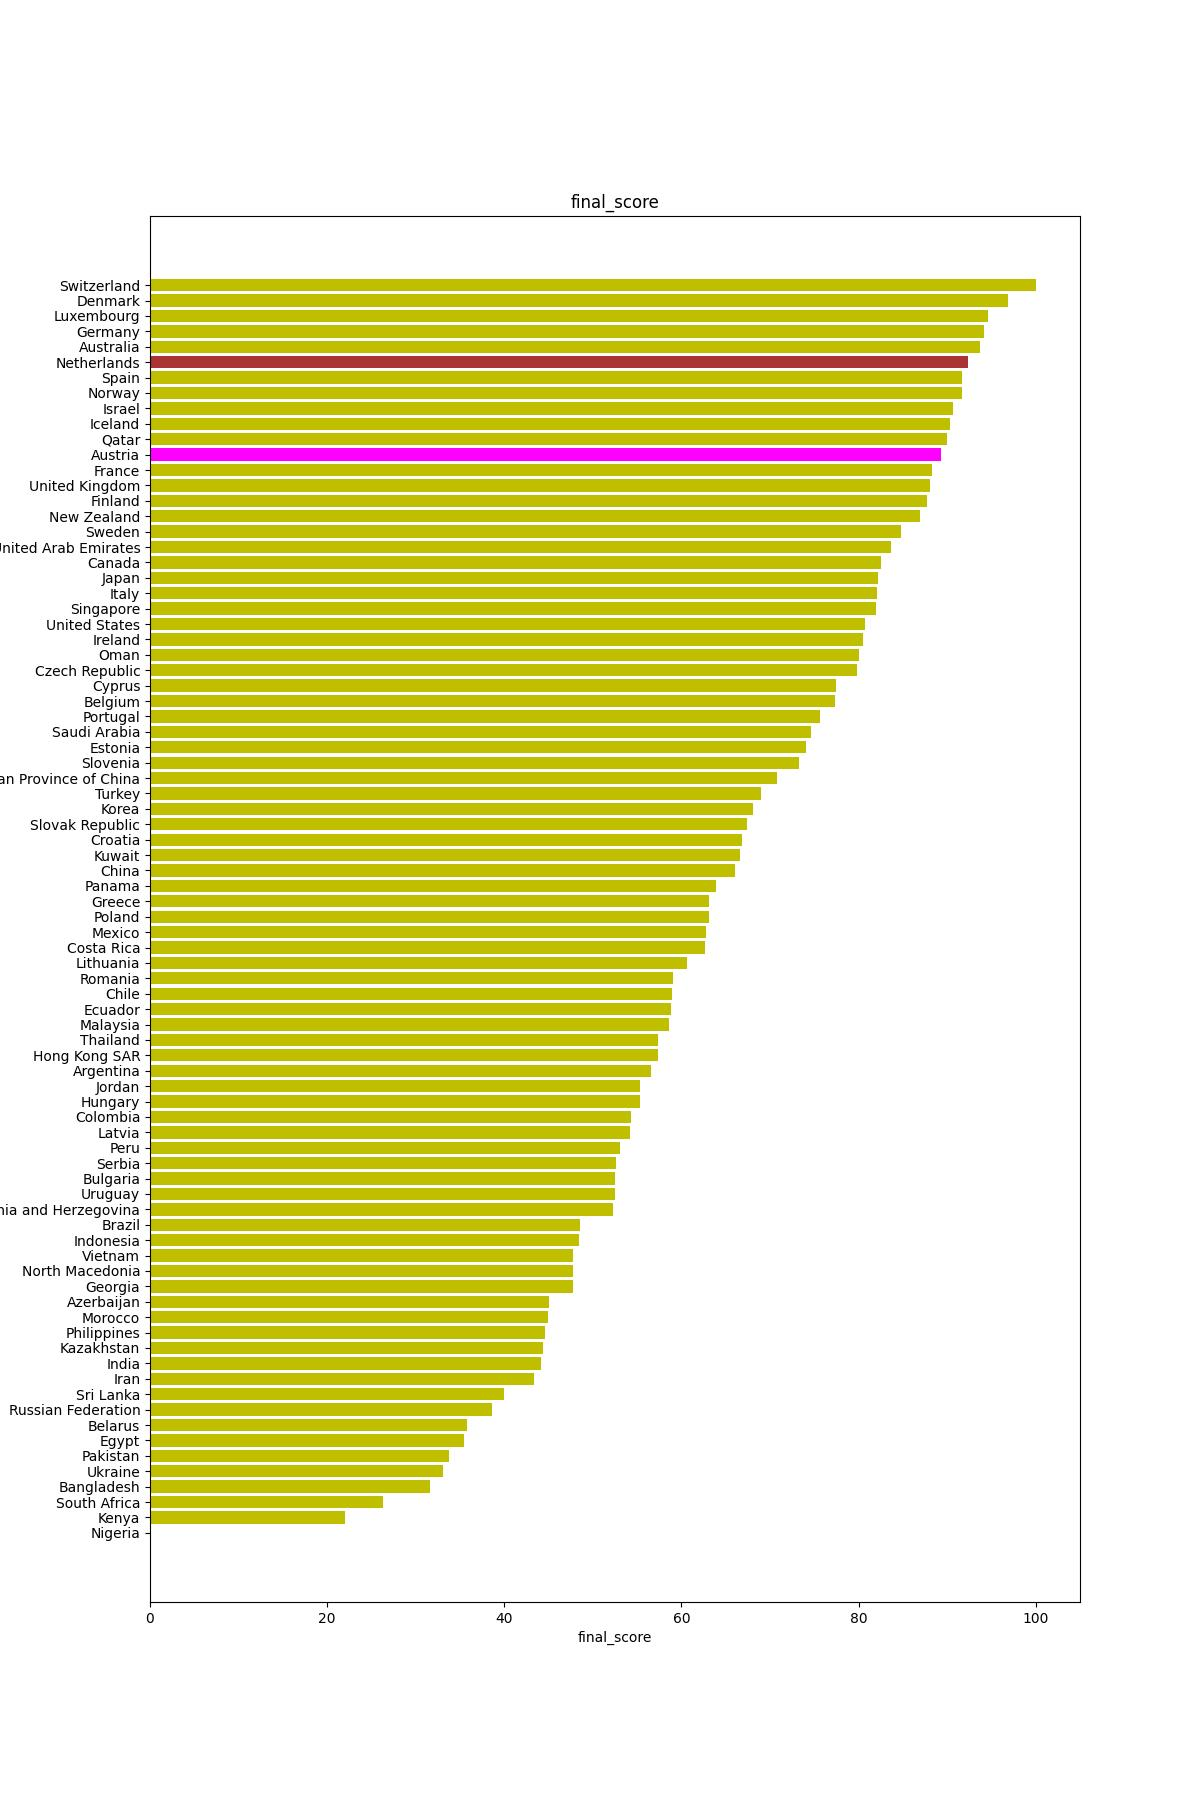
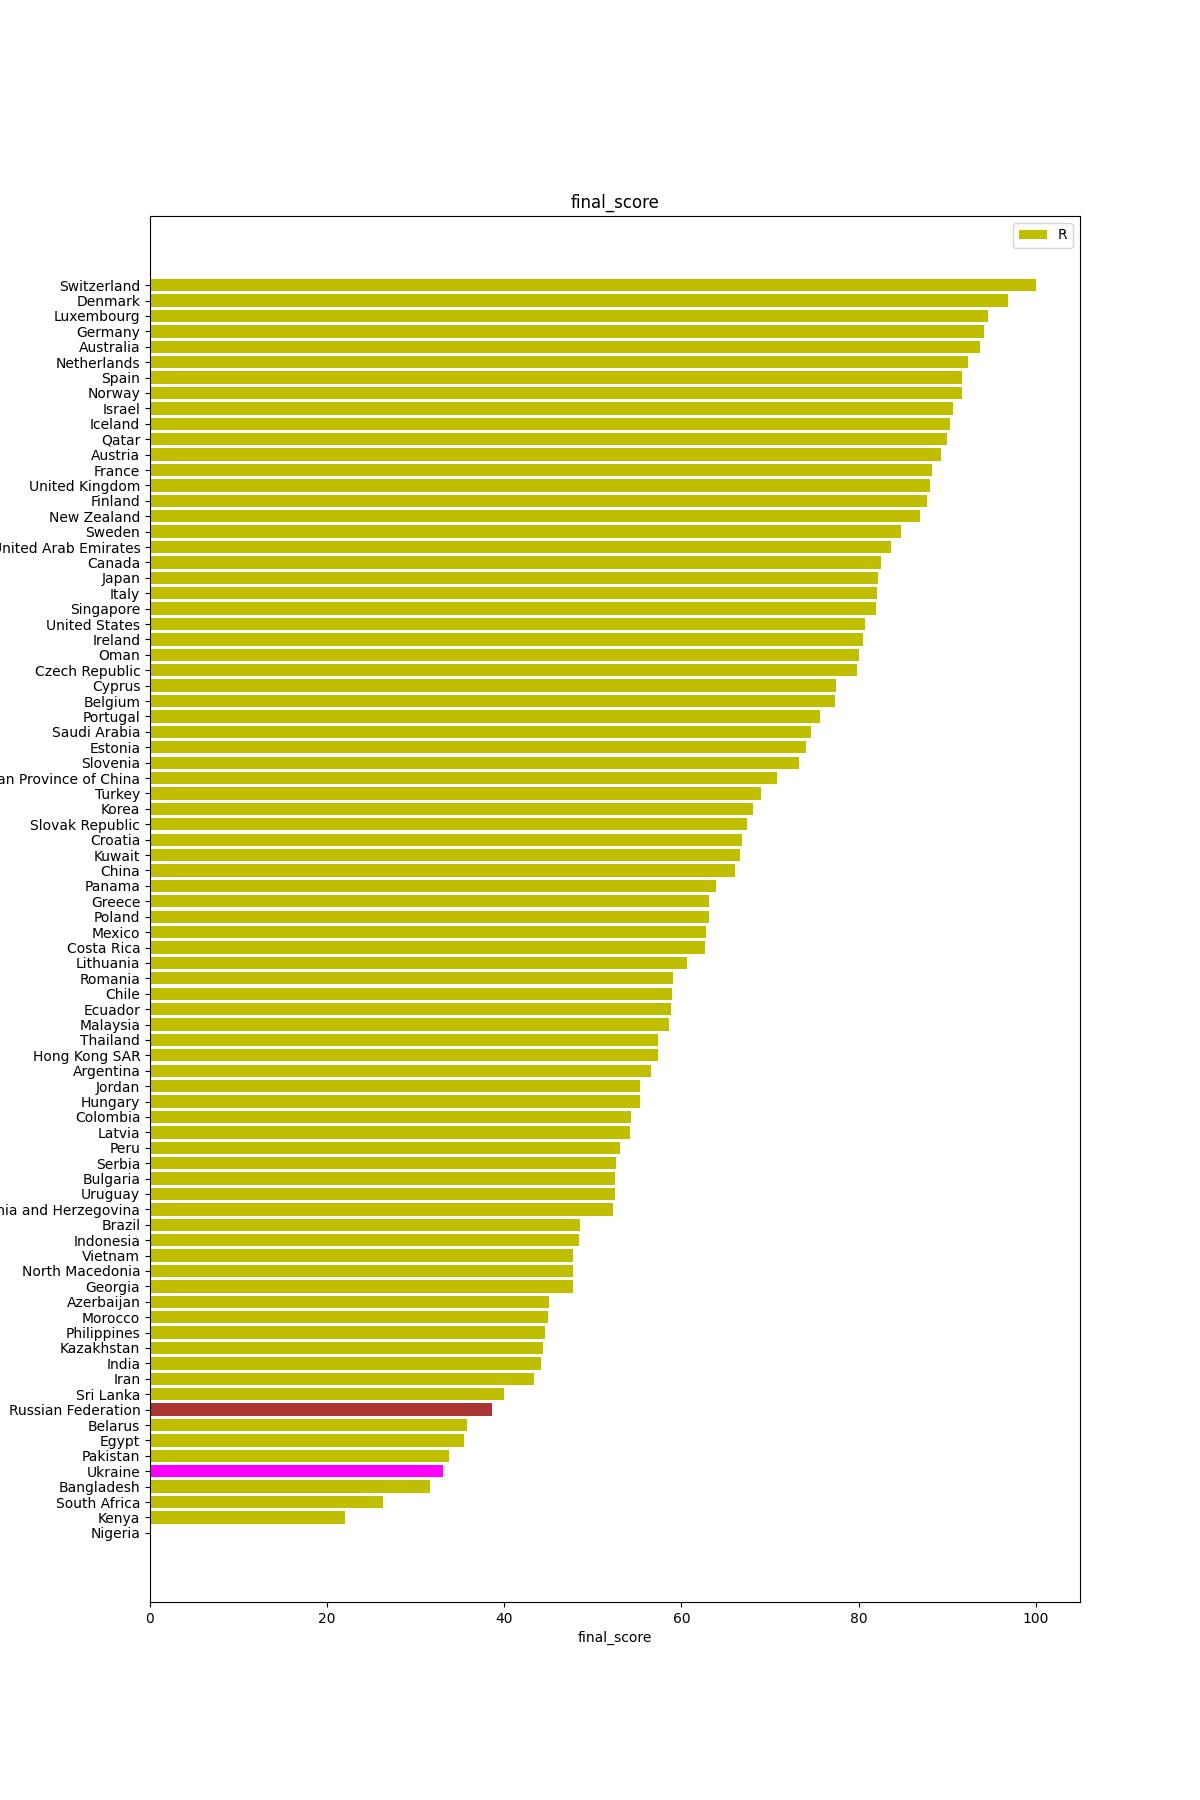
streamlit: display update

diff --git a/country_comparison/plots/plot_rankings.py b/country_comparison/plots/plot_rankings.py
@@ -1,7 +1,6 @@
 import matplotlib.pyplot as plt
 import numpy as np
 import pandas as pd
-import streamlit as st
 
 from os import path
 
@@ -15,10 +14,9 @@ def _highlight_basic_country(standings_df, config, ax):
 
 def highlight_buddie(standings_df, fig, ax, config, country_buddie):
     pos = standings_df.index[standings_df['country'] == country_buddie][0]
-    magenda_color = '#ff00ff'
-    ax.patches[pos].set_facecolor(magenda_color)
+    magenta_color = '#ff00ff'
+    ax.patches[pos].set_facecolor(magenta_color)
     plt.savefig(path.join(config['root'], config['res_filepath'].replace('csv', 'jpeg')))
-    st.pyplot(fig)
 
 
 def plot_rankings_hor(standings_df: pd.DataFrame, config):
@@ -38,6 +36,5 @@ def plot_rankings_hor(standings_df: pd.DataFrame, config):
     ax = _highlight_basic_country(standings_df, config, ax)
 
     plt.savefig(path.join(config['root'], config['res_filepath'].replace('csv', 'jpeg')))
-    st.pyplot(fig)
 
     return fig, ax

diff --git a/country_comparison/reads/read_config.py b/country_comparison/reads/read_config.py
@@ -12,9 +12,11 @@ def update_config_from_slider(config):
         abs_min = 0
         abs_max = 10
         direction = 1
+        neg_addition = ''
         if config['feature_weights'][feature] < 0:
             direction = -1
-        abs_score = st.sidebar.slider(feature,
+            neg_addition = ' (negative value)'
+        abs_score = st.sidebar.slider(feature+neg_addition,
                                       min_value=abs_min,
                                       max_value=abs_max,
                                       value=int(abs(config['feature_weights'][feature])*10),

diff --git a/main.py b/main.py
@@ -1,5 +1,6 @@
 import numpy as np
 import pandas as pd
+import streamlit as st
 from country_comparison.compare import default_minmax_scaling
 from country_comparison.plots.plot_rankings import plot_rankings_hor, highlight_buddie
 from country_comparison.reads.read_config import read_config, update_config_from_slider
@@ -37,4 +38,7 @@ if __name__ == "__main__":
     if config['is_buddie_highlight']:
         country_buddie = search_a_buddie(df, config)
         highlight_buddie(df, fig, ax, config, country_buddie)
+
+    st.pyplot(fig)
+
 

diff --git a/README.md b/README.md
@@ -19,7 +19,7 @@ Further explanations about features you can find in **feature_explanation branch
 
 ### To check the app
 
-Visit https://share.streamlit.io/pvgorshenin/country_comparison/streamlit/main.py
+[Visit](https://share.streamlit.io/pvgorshenin/country_comparison/streamlit/main.py)
 
 ### To run locally
 
